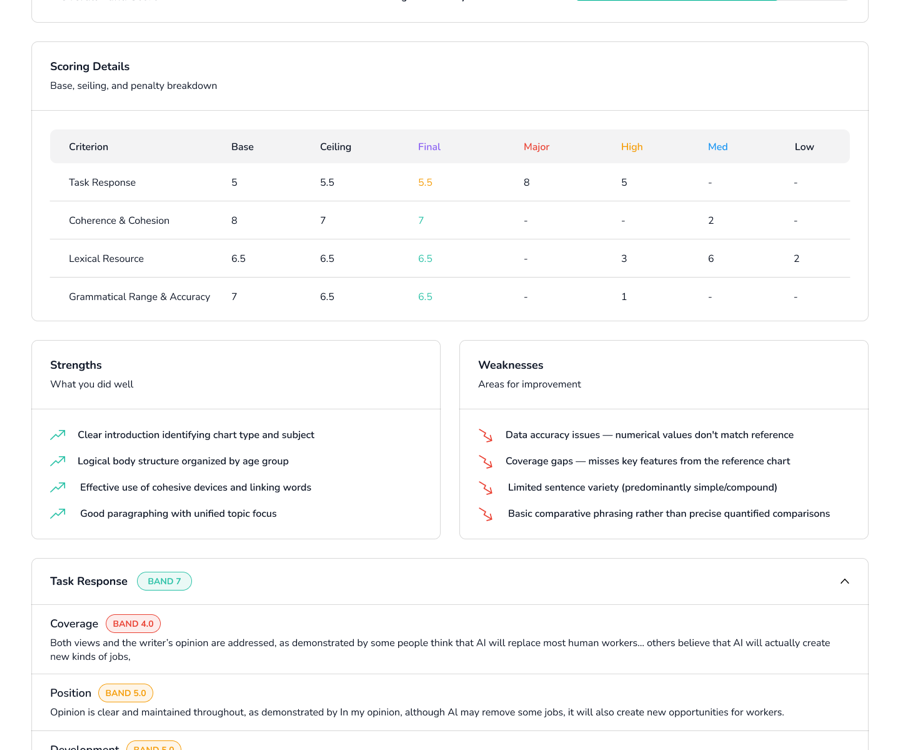
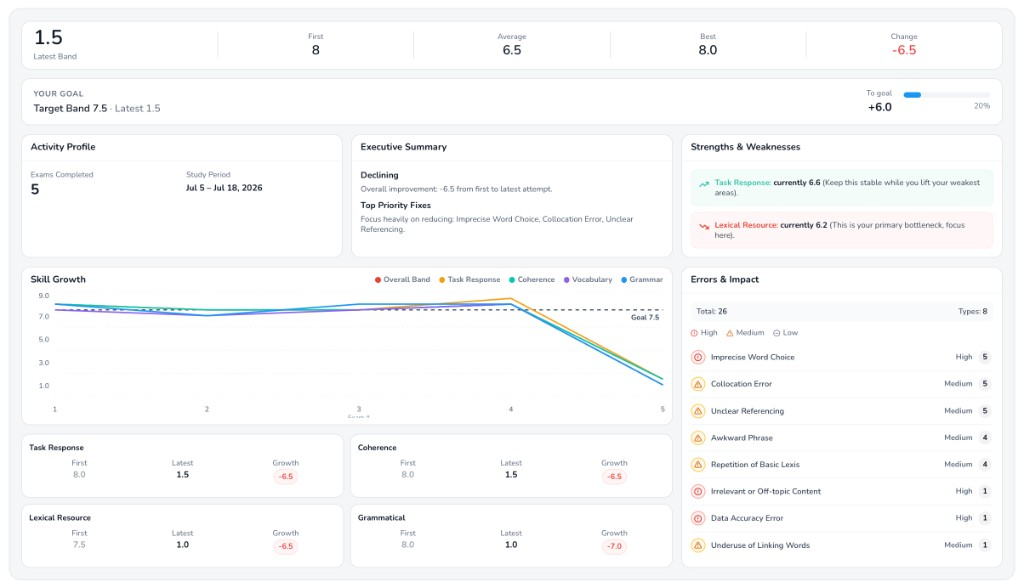
Polish hero: benefit bullets and full product screenshots in order.
Drop the long support blurb, list report/performance/roadmap/next steps as clear bullets, and show the uploaded shots with object-contain so nothing is cropped.

diff --git a/ielts-grader-app/src/marketing/Hero.jsx b/ielts-grader-app/src/marketing/Hero.jsx
@@ -1,5 +1,5 @@
 import React, { useState, useEffect, useCallback } from 'react';
-import { FileCheck2, Clock, Info, Star, Zap, ShieldCheck, ChevronLeft, ChevronRight, Gift } from 'lucide-react';
+import { FileCheck2, Clock, Info, Star, ChevronLeft, ChevronRight, Gift, BarChart3, Map, Target } from 'lucide-react';
 import { useGrade } from '../context/GradeContext';
 import { useAuth } from '../context/AuthContext';
 import { useNavigate } from 'react-router-dom';
@@ -19,6 +19,13 @@ const AVATARS = [
   '/images/avatars/avatar-4.jpg',
 ];
 
+const BENEFIT_BULLETS = [
+  { Icon: FileCheck2, title: 'Full tutor report', detail: 'Criterion scores + sentence-level fixes' },
+  { Icon: BarChart3, title: 'Overall performance', detail: 'Trends across your exams toward your goal' },
+  { Icon: Map, title: 'Roadmap', detail: 'Clear pathway to your next half-band' },
+  { Icon: Target, title: 'Personalized next steps', detail: 'What to practice first—ranked for you' },
+];
+
 const SLIDE_INTERVAL_MS = 5000;
 
 const HERO_SLIDES = [
@@ -28,10 +35,6 @@ const HERO_SLIDES = [
     cue: 'both',
     badge: '1 free evaluation · No card required',
     mobileBadge: 'Free · No card',
-    lines: ['A full tutor report, performance view,', 'roadmap, and personalized next steps.'],
-    accentWord: 'personalized next steps.',
-    support:
-      'Stop guessing your band. Sign up free—no credit card—and see exactly what to fix, how you are trending, and what to practice next.',
     chip: { Icon: Gift, text: '1 free full evaluation · No credit card', iconClass: 'text-[#F59E0B]', fill: null },
     accent: '#0EA5E9',
     mobileSub: (
@@ -41,14 +44,30 @@ const HERO_SLIDES = [
     ),
   },
   {
+    id: 'performance',
+    type: 'shot',
+    cue: 'both',
+    badge: 'Overall performance',
+    mobileBadge: 'Performance',
+    caption: 'Latest band, goal progress, strengths, and your top priority fixes in one view.',
+    image: '/images/hero/performance.png',
+    imageAlt: 'Overall performance dashboard with band goal and skill growth',
+    accent: '#0284C7',
+    mobileSub: (
+      <>
+        Track progress toward <span className="text-[#0EA5E9]">your target band</span>
+      </>
+    ),
+  },
+  {
     id: 'report',
     type: 'shot',
     cue: 'grade',
     badge: 'Full tutor report',
     mobileBadge: 'Tutor report',
-    caption: 'Criterion scores plus sentence-level fixes—not just a band number.',
+    caption: 'Band breakdown plus Fix Cards that rewrite weak sentences for you.',
     image: '/images/hero/report.png',
-    imageAlt: 'IELTS tutor report with band scores and fix cards',
+    imageAlt: 'Tutor report with overall band score and grammar fix card',
     accent: '#0D9488',
     mobileSub: (
       <>
@@ -57,34 +76,18 @@ const HERO_SLIDES = [
     ),
   },
   {
-    id: 'performance',
+    id: 'edition',
     type: 'shot',
     cue: 'both',
-    badge: 'Overall performance',
-    mobileBadge: 'Performance',
-    caption: 'See how each criterion trends so you know what is lifting—or holding—your band.',
-    image: '/images/hero/roadmap.png',
-    imageAlt: 'Overall performance chart across writing criteria',
-    accent: '#0284C7',
+    badge: 'Top mistakes across exams',
+    mobileBadge: 'Top mistakes',
+    caption: 'See what keeps repeating across exams—and which criterion they hit.',
+    image: '/images/hero/edition.png',
+    imageAlt: 'Edition summary of top mistakes and average band scores',
+    accent: '#F59E0B',
     mobileSub: (
       <>
-        Track criterion trends toward <span className="text-[#0EA5E9]">your target band</span>
-      </>
-    ),
-  },
-  {
-    id: 'roadmap',
-    type: 'shot',
-    cue: 'both',
-    badge: 'Your roadmap',
-    mobileBadge: 'Roadmap',
-    caption: 'A clear pathway to the next half-band—what to raise and by how much.',
-    image: '/images/hero/personalized.png',
-    imageAlt: 'Pathway roadmap toward the next IELTS band',
-    accent: '#0D9488',
-    mobileSub: (
-      <>
-        A clear path to your <span className="text-[#0EA5E9]">next half-band</span>
+        Your top mistakes <span className="text-[#0EA5E9]">across exams</span>
       </>
     ),
   },
@@ -94,13 +97,29 @@ const HERO_SLIDES = [
     cue: 'grade',
     badge: 'Personalized learning',
     mobileBadge: 'Your plan',
-    caption: 'Strengths, weaknesses, and prioritized practice tailored to your essays.',
-    image: '/images/hero/performance.png',
-    imageAlt: 'Personalized strengths, weaknesses, and study focus',
-    accent: '#F59E0B',
+    caption: 'Tutor verdict, plateau alerts, and the lowest-hanging fruit to raise next.',
+    image: '/images/hero/personalized.png',
+    imageAlt: 'Personalized tutor verdict and pathway to the next band',
+    accent: '#0EA5E9',
     mobileSub: (
       <>
-        Prioritized practice for <span className="text-[#0EA5E9]">your weakest criteria</span>
+        Next steps tailored to <span className="text-[#0EA5E9]">your essays</span>
+      </>
+    ),
+  },
+  {
+    id: 'roadmap',
+    type: 'shot',
+    cue: 'both',
+    badge: 'Skill roadmap',
+    mobileBadge: 'Roadmap',
+    caption: 'Skill growth over time plus mistake frequency—so you know what to lift next.',
+    image: '/images/hero/roadmap.png',
+    imageAlt: 'Skill growth chart and mistake frequency roadmap',
+    accent: '#0D9488',
+    mobileSub: (
+      <>
+        A clear path to your <span className="text-[#0EA5E9]">next half-band</span>
       </>
     ),
   },
@@ -171,18 +190,31 @@ const Hero = () => {
   const isMockMobileFill = cardView === 'mock';
   const ChipIcon = isTextSlide ? slide.chip.Icon : null;
 
-  const renderHeadlineLines = (lines, accentWord, className) => (
-    <div className={className} aria-live="polite">
-      {lines.map((line) => (
-        <span key={line} className="block">
-          {line === accentWord ? (
-            <span className="font-semibold text-[#0EA5E9]">{line}</span>
-          ) : (
-            line
-          )}
-        </span>
+  const BenefitBullets = ({ compact = false }) => (
+    <ul
+      className={`list-none m-0 p-0 flex flex-col ${compact ? 'gap-2.5' : 'gap-3.5'} max-w-[520px]`}
+      aria-label="What you get"
+    >
+      {BENEFIT_BULLETS.map(({ Icon, title, detail }) => (
+        <li key={title} className="flex items-start gap-3">
+          <span
+            className={`mt-0.5 flex shrink-0 items-center justify-center rounded-lg bg-[#E0F2FE] text-[#0284C7] ${
+              compact ? 'w-7 h-7' : 'w-9 h-9'
+            }`}
+          >
+            <Icon className={compact ? 'w-3.5 h-3.5' : 'w-4 h-4'} strokeWidth={2.25} />
+          </span>
+          <span className="min-w-0">
+            <span className={`block font-semibold text-[#0f172a] leading-snug ${compact ? 'text-[13px]' : 'text-[16px]'}`}>
+              {title}
+            </span>
+            <span className={`block text-[#64748B] leading-snug ${compact ? 'text-[12px] mt-0.5' : 'text-[14px] mt-0.5'}`}>
+              {detail}
+            </span>
+          </span>
+        </li>
       ))}
-    </div>
+    </ul>
   );
 
   const SlideDots = ({ className = '', size = 'sm' }) => (
@@ -413,7 +445,7 @@ const Hero = () => {
               <>
                 <div
                   key={`m-chip-${slide.id}`}
-                  className="flex items-center gap-2.5 text-[12px] sm:text-[13px] font-medium text-[#1a1f36] tracking-[-0.01em] hero-slide-enter"
+                  className="flex items-center gap-2.5 text-[12px] sm:text-[13px] font-medium text-[#1a1f36] tracking-[-0.01em] hero-slide-enter mb-1"
                 >
                   <ChipIcon
                     className={`w-[17px] h-[17px] shrink-0 ${slide.chip.iconClass}`}
@@ -421,13 +453,8 @@ const Hero = () => {
                   />
                   <span>{slide.chip.text}</span>
                 </div>
-                <div className="flex items-center gap-2.5 text-[12px] sm:text-[13px] font-medium text-[#1a1f36] tracking-[-0.01em] whitespace-nowrap">
-                  <Zap className="w-[17px] h-[17px] text-[#0EA5E9] shrink-0" strokeWidth={2} />
-                  <span>Report, performance & roadmap in one place</span>
-                </div>
-                <div className="flex items-center gap-2.5 text-[12px] sm:text-[13px] font-medium text-[#1a1f36] tracking-[-0.01em] whitespace-nowrap">
-                  <ShieldCheck className="w-[17px] h-[17px] text-[#0D9488] shrink-0" strokeWidth={2} />
-                  <span>Personalized steps to your target band</span>
+                <div key="m-bullets" className="hero-slide-enter">
+                  <BenefitBullets compact />
                 </div>
               </>
             ) : (
@@ -467,20 +494,9 @@ const Hero = () => {
 
                 {isTextSlide ? (
                   <>
-                    <div key={`lines-${slide.id}`} className="hero-slide-enter mt-3 mb-5">
-                      {renderHeadlineLines(
-                        slide.lines,
-                        slide.accentWord,
-                        "text-[24px] xl:text-[26px] font-medium text-[#475569] leading-[1.3] tracking-[-0.015em] font-['Nunito',_sans-serif] max-w-[520px]"
-                      )}
+                    <div key={`bullets-${slide.id}`} className="hero-slide-enter mt-5 mb-6">
+                      <BenefitBullets />
                     </div>
-
-                    <p
-                      key={`support-${slide.id}`}
-                      className="text-[16px] text-[#64748B] leading-[1.55] mb-6 max-w-[480px] hero-slide-enter m-0"
-                    >
-                      {slide.support}
-                    </p>
 
                     <div
                       key={`chip-${slide.id}`}
@@ -495,20 +511,14 @@ const Hero = () => {
                   </>
                 ) : (
                   <div key={`shot-${slide.id}`} className="hero-slide-enter mt-4 mb-5">
-                    <p className="text-[15px] text-[#64748B] leading-snug m-0 mb-4 max-w-[440px]">
+                    <p className="text-[15px] text-[#64748B] leading-snug m-0 mb-4 max-w-[480px]">
                       {slide.caption}
                     </p>
-                    <div className="hero-shot-frame relative max-w-[520px] rounded-[16px] overflow-hidden bg-white border border-[#E2E8F0] shadow-[0_20px_50px_rgba(15,23,42,0.1)]">
-                      <div
-                        className="absolute inset-0 pointer-events-none opacity-40"
-                        style={{
-                          background: `linear-gradient(135deg, ${slide.accent}14 0%, transparent 55%)`,
-                        }}
-                      />
+                    <div className="hero-shot-frame relative w-full max-w-[540px] rounded-[16px] bg-[#F8FAFC] border border-[#E2E8F0] shadow-[0_20px_50px_rgba(15,23,42,0.1)] p-3 sm:p-4 flex items-center justify-center min-h-[200px] max-h-[360px]">
                       <img
                         src={slide.image}
                         alt={slide.imageAlt}
-                        className="relative w-full h-auto max-h-[280px] object-cover object-top block"
+                        className="relative w-full h-auto max-h-[328px] object-contain object-center block"
                         loading="lazy"
                       />
                     </div>
